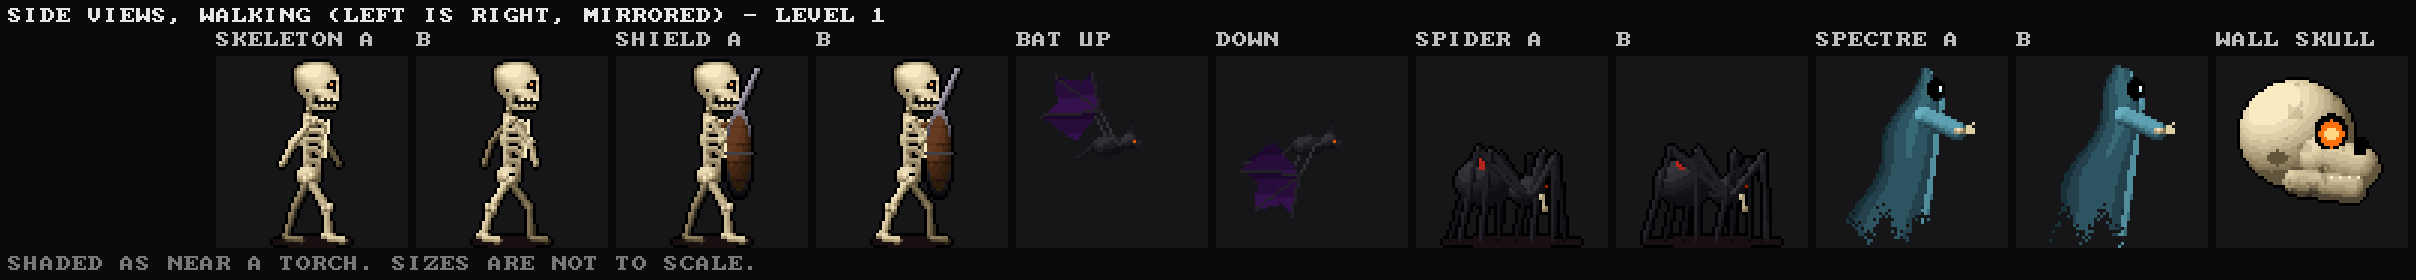
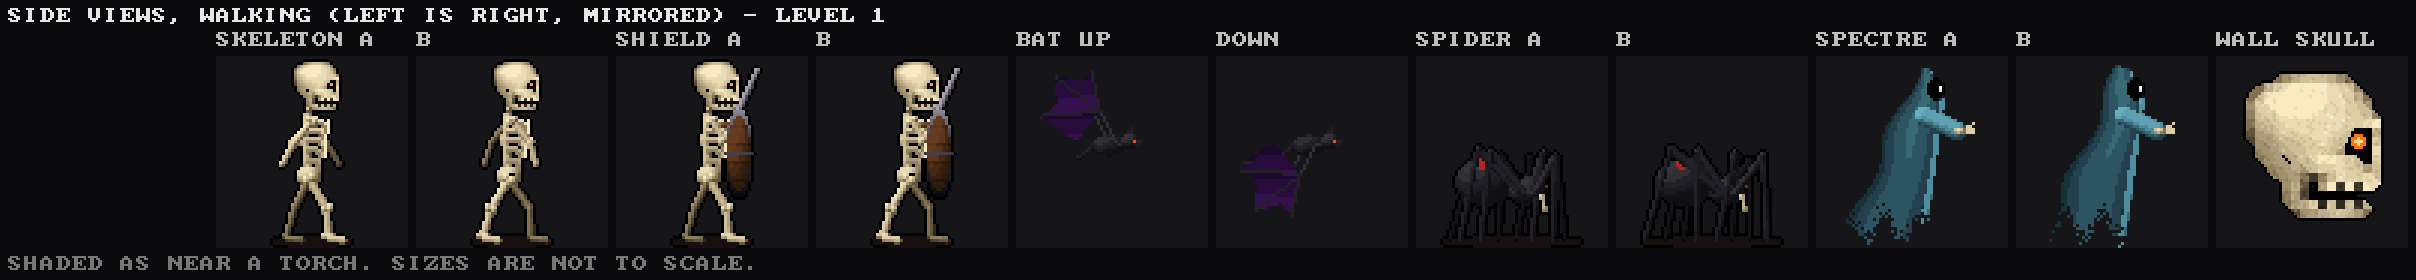
Art pass: the wall skull, the master skull three times over
The wall skull is the hand-drawn skull enlarged by Scale3x (grid_scale3),
with grain and cracks at the finer scale: embers deep in its sockets while
it sleeps, fire gathering in them as it wakes, then in its mouth, its nose
and its cracks as it blazes; broken, it splits and the right half drops.
Its ranks dress it in moss, frost, tears of old blood, char under an iron
crown, and gold. Its side view is the profile, likewise.

Render and art only: a dream run's events are unchanged, and the frame
time matches the commit before, benched back to back. The hand-off log in
docs/InitialArtPass.md section 13 has the lessons so far.

Claude-Session: https://claude.ai/code/session_015ifzKucNXU48yoPLrSFXC9

Changed region(s): [[0.9002, 0.2571, 0.9934, 0.8]]

diff --git a/src/crawl_art.c b/src/crawl_art.c
@@ -1423,49 +1423,106 @@ static void spr_shieldskel(int id, float walk, int swing, int shield) {
     skel_dress(id, walk, 48.0f, swing ? 6.0f : 24.0f);
 }
 
-/* The wall skull: a great skull set into the stone. Asleep it is only bone; woken, fire gathers in
- * its eyes and mouth; then it blazes. */
+/* The wall skull (docs/InitialArtPass.md section 8): the master skull three times over (Scale3x keeps its corners), grain
+ * and cracks at the finer scale, set in the stone to watch the halls. Asleep, embers deep in its sockets; woken, fire
+ * gathers in them; blazing, it shows through the teeth and the cracks; broken, it splits and the right half falls. */
+static uint8_t g_big[64 * 64];
+static int g_bigw, g_bigh;
+static void grid_scale3(const char *const *g, int w, int h, int mirror) {   /* into g_big: palette indices, C_CLEAR, 0 the sockets */
+    uint8_t src[SKULL_H][SKULL_W];
+    for (int y = 0; y < h; y++)
+        for (int x = 0; x < w; x++) {
+            char ch = g[y][mirror ? w - 1 - x : x];
+            src[y][x] = ch == '.' ? (uint8_t)C_CLEAR : (ch == '0' || ch == '@') ? 0 : (uint8_t)(R_BONE + (ch <= '9' ? ch - '0' : ch - 'a' + 10));
+        }
+    #define S3(yy, xx) ((yy) < 0 || (yy) >= h || (xx) < 0 || (xx) >= w ? (uint8_t)C_CLEAR : src[yy][xx])
+    g_bigw = w * 3; g_bigh = h * 3;
+    for (int y = 0; y < h; y++)
+        for (int x = 0; x < w; x++) {
+            uint8_t A = S3(y - 1, x - 1), B = S3(y - 1, x), C = S3(y - 1, x + 1), D = S3(y, x - 1), E = src[y][x], F = S3(y, x + 1);
+            uint8_t G = S3(y + 1, x - 1), H = S3(y + 1, x), I = S3(y + 1, x + 1), o[9];
+            int db = D == B && D != H && B != F, bf = B == F && B != D && F != H, dh = D == H && D != B && H != F, hf = H == F && D != H && B != F;
+            o[0] = db ? D : E; o[1] = (db && E != C) || (bf && E != A) ? B : E; o[2] = bf ? F : E;
+            o[3] = (db && E != G) || (dh && E != A) ? D : E; o[4] = E; o[5] = (bf && E != I) || (hf && E != C) ? F : E;
+            o[6] = dh ? D : E; o[7] = (dh && E != I) || (hf && E != G) ? H : E; o[8] = hf ? F : E;
+            for (int k = 0; k < 9; k++) g_big[(y * 3 + k / 3) * 64 + x * 3 + k % 3] = o[k];
+        }
+    #undef S3
+}
 static void spr_wskull(int id, int heat) {
     cv_begin(cv_sprite, TS, TS);
-    if (heat == 3) {                                               /* broken, falling */
-        cv_ellipse(24, 40, 12, 10, R_BONE, 0.25f, 0.9f); cv_ellipse(43, 46, 10, 8, R_BONE, 0.2f, 0.8f);
-        cv_line(24, 31, 30, 46, R_BONE + 1); cv_line(40, 40, 46, 52, R_BONE + 1);
-        cv_ellipse(22, 40, 3.5f, 4.0f, R_BONE, 0.0f, 0.05f);
+    grid_scale3(SKULL_FRONT, SKULL_W, SKULL_H, 0);
+    int x0 = 32 - g_bigw / 2, y0 = 6;
+    for (int y = 0; y < g_bigh; y++)                               /* the bone, with a grain finer than its pixels */
+        for (int x = 0; x < g_bigw; x++) {
+            uint8_t c = g_big[y * 64 + x];
+            if (c == C_CLEAR) continue;
+            if (c > R_BONE && c < R_BONE + 16) {
+                float r = h01(x, y, 71), n = fbm(x / 5.0f, y / 5.0f, 16, 73);
+                int v = c - R_BONE + (r < 0.12f ? -1 : r > 0.93f ? 1 : 0) - (n < 0.3f ? 1 : 0);
+                c = (uint8_t)(R_BONE + clampi(v, 1, 15));
+            }
+            cv_px(x0 + x, y0 + y, c);
+        }
+    static const float CR[3][4] = { { 33, 6, 1.1f, 13 }, { 15, 18, 0.5f, 9 }, { 40, 34, 1.9f, 8 } };   /* cracks wandering through it */
+    for (int k = 0; k < 3; k++) {
+        float x = CR[k][0], y = CR[k][1], a = CR[k][2];
+        for (int i = 0; i < (int)CR[k][3]; i++) {
+            a += (h01(k, i, 79) - 0.5f) * 0.9f; x += cosf(a); y += sinf(a);
+            uint8_t c = cv_sprite[(int)y * TS + (int)x];
+            if (c > R_BONE && c < R_BONE + 16) cv_px((int)x, (int)y, heat == 2 ? (uint8_t)(R_FLAME + 8 + (i & 3)) : (uint8_t)(R_BONE + 1));
+        }
+    }
+    /* its eyes: the sockets' middles, 3 by 3 from the grid's @ */
+    float ex[2], ey[2]; int ne = 0;
+    for (int y = 0; y < SKULL_H; y++) for (int x = 0; x < SKULL_W && ne < 2; x++) if (SKULL_FRONT[y][x] == '@') { ex[ne] = x0 + x * 3 + 1.5f; ey[ne] = y0 + y * 3 + 1.5f; ne++; }
+    if (heat == 3) {                                               /* broken: split, the right half falling away */
+        static uint8_t tmp[TS * TS];
+        memcpy(tmp, cv_sprite, sizeof tmp);
+        for (int y = 0; y < TS; y++)
+            for (int x = 0; x < TS; x++) {
+                int jag = 33 + (int)(3.0f * sinf(y * 0.7f)) + (y & 1);
+                if (x >= jag - 1 && x <= jag) { cv_sprite[y * TS + x] = C_CLEAR; continue; }
+                if (x > jag) { cv_sprite[y * TS + x] = C_CLEAR; int sy = y - 6, sx = x - 3; if (sy >= 0 && sx > jag) cv_sprite[y * TS + x] = tmp[sy * TS + sx]; }
+            }
+        for (int i = 0; i < 7; i++) cv_ellipse(14 + h01(i, 1, 81) * 36, 57 + h01(i, 2, 81) * 5, 1.5f + h01(i, 3, 81) * 2, 1.2f, R_BONE, 0.2f, 0.8f);   /* shards */
         cv_outline(0); cv_store(id); return;
     }
-    cv_ellipse(32, 27, 21, 20, R_BONE, 0.22f, 0.95f);              /* the dome */
-    cv_ellipse(32, 44, 14, 9, R_BONE, 0.2f, 0.8f);                 /* the jaw */
-    for (int y = 0; y < TS; y++)                                   /* cracks and grime */
-        for (int x = 0; x < TS; x++) {
-            uint8_t *p = &cv_sprite[y * TS + x];
-            if (*p == C_CLEAR) continue;
-            if (fbm(x / 6.0f, y / 6.0f, 16, 71) < 0.3f) *p = (uint8_t)(*p - 2 < R_BONE ? R_BONE : *p - 2);
-        }
-    cv_line(22, 9, 27, 20, R_BONE + 2); cv_line(27, 20, 25, 24, R_BONE + 2);
-    for (int k = -1; k <= 1; k += 2) {                             /* sockets */
-        float ex = 32 + k * 8.5f, ey = 29;
-        cv_flat(ex, ey, 6.0f, 6.5f, 0);
-        cv_eye_mark((int)ex, (int)ey);
-        if (heat) {
-            float r = heat == 1 ? 2.5f : 4.6f;
-            for (int y = (int)(ey - 7); y <= (int)(ey + 7); y++)
-                for (int x = (int)(ex - 7); x <= (int)(ex + 7); x++) {
-                    float d = hypotf(x + 0.5f - ex, (y + 0.5f - ey) * 0.9f) / r;
-                    if (d < 1.0f) cv_px(x, y, (uint8_t)(R_FLAME + clampi((int)((1.1f - d * 0.8f) * 15), 2, 15)));
-                }
-            if (heat == 2) for (int i = 0; i < 6; i++) cv_px((int)(ex + (h01(i, k + 2, 73) - 0.5f) * 8), (int)(ey - 6 - h01(i, k + 5, 73) * 6), (uint8_t)(R_FLAME + 9 + (i & 3)));
-        } else cv_px((int)ex, (int)ey + 1, R_FLAME + 3);           /* a last ember */
+    for (int k = 0; k < ne; k++) {
+        cv_eye_mark((int)ex[k], (int)ey[k]);
+        if (!heat) { cv_px((int)ex[k], (int)ey[k], (uint8_t)(R_FLAME + 3)); continue; }   /* a last ember */
+        float r = heat == 1 ? 3.0f : 5.5f;
+        for (int y = (int)(ey[k] - 7); y <= (int)(ey[k] + 7); y++)   /* fire gathering in the socket, and only there */
+            for (int x = (int)(ex[k] - 7); x <= (int)(ex[k] + 7); x++) {
+                if ((unsigned)x >= TS || (unsigned)y >= TS || cv_sprite[y * TS + x] != 0) continue;
+                float d = hypotf(x + 0.5f - ex[k], (y + 0.5f - ey[k]) * 0.9f) / r;
+                if (d < 1.0f) cv_px(x, y, (uint8_t)(R_FLAME + clampi((int)((1.1f - d * 0.8f) * 15), 2, 15)));
+            }
+        if (heat == 2) for (int i = 0; i < 6; i++) cv_px((int)(ex[k] + (h01(i, k + 2, 83) - 0.5f) * 7), (int)(ey[k] - 5 - h01(i, k + 5, 83) * 6), (uint8_t)(R_FLAME + 9 + (i & 3)));
     }
-    float nose[6] = { 32, 34, 29, 40, 35, 40 };                    /* nose */
-    cv_poly(nose, 3, R_BONE, 0.0f, 0.0f, 34, 6);
-    for (int y = 34; y < 41; y++) for (int x = 29; x < 36; x++) if (cv_sprite[y * TS + x] == R_BONE) cv_sprite[y * TS + x] = 0;
-    for (int i = -4; i <= 4; i++) {                                /* teeth over a dark mouth */
-        int x = 32 + i * 2;
-        cv_px(x, 45, 0); cv_px(x, 46, heat ? (uint8_t)(R_FLAME + 6 + heat * 3) : 0);
-        cv_px(x - 1, 44, sh(R_BONE, 0.9f)); cv_px(x - 1, 47, sh(R_BONE, 0.7f));
-    }
+    if (heat)                                                      /* and in its mouth, and up its nose when it blazes */
+        for (int y = y0 + 27; y < y0 + 48; y++)
+            for (int x = x0; x < x0 + g_bigw; x++) {
+                if (cv_sprite[y * TS + x] != 0) continue;
+                int mouth = y >= y0 + 39, nose = y < y0 + 39 && x > x0 + 15 && x < x0 + 30;
+                if (mouth) cv_px(x, y, (uint8_t)(R_FLAME + (heat == 2 ? 7 + (int)(h01(x, y, 85) * 6.0f) : 2 + (int)(h01(x, y, 85) * 3.0f))));
+                else if (nose && heat == 2) cv_px(x, y, (uint8_t)(R_FLAME + 4 + (int)(h01(x, y, 87) * 4.0f)));
+            }
     cv_outline(0);
     cv_store(id);
+}
+
+/* the wall skull's dressing: what its rank has done to it, as the skeletons' */
+static void wskull_dress(int id) {
+    for (int r = RK_II; r < NRANK; r++) {
+        dress_begin(id);
+        if (r == RK_II) kit_moss(0.35f, 2, 401);
+        if (r == RK_III) kit_frost(0.8f, 403);
+        if (r == RK_IV) { kit_blood(23, 37, 14, 2, 405); kit_blood(41, 37, 12, 2, 407); }   /* tears of old blood */
+        if (r == RK_V) { kit_char(0.35f, 409); kit_crown(32, 7, 26, 411); }
+        if (r == RK_GILDED) { kit_gold(R_BONE, 0.6f, 413); kit_mask(10, 6, 55, 42); }
+        dress_store(id, r, R_BONE);
+    }
 }
 
 /* A big black spider: the red eyes are all you see of it in its web until it drops */
@@ -5299,17 +5356,6 @@ static void cv_curve(float x0, float y0, float cx, float cy, float x1, float y1,
     }
 }
 
-/* a skull in profile, looking right: crown, brow, the long face, a hinged jaw */
-static void skull_side(float x, float y, float s, float jaw, uint8_t eye) {
-    cv_ellipse(x - 1.0f * s, y, 6.0f * s, 5.6f * s, R_BONE, 0.3f, 1.0f);
-    cv_capsule(x + 1.5f * s, y + 2.5f * s, x + 5.5f * s, y + 3.5f * s, 2.2f * s, R_BONE, 0.3f, 0.9f);   /* the upper jaw */
-    cv_capsule(x - 1.0f * s, y + 5.0f * s, x + 5.0f * s, y + 5.5f * s + jaw, 1.4f * s, R_BONE, 0.25f, 0.8f);   /* the lower */
-    cv_flat(x + 2.6f * s, y - 0.2f * s, 1.8f * s, 1.9f * s, 0);    /* the socket */
-    if (eye) cv_px((int)(x + 2.8f * s), (int)y, eye);
-    cv_flat(x + 5.6f * s, y + 1.4f * s, 0.7f * s, 0.9f * s, 0);    /* the nose */
-    for (int i = 0; i < 4; i++) cv_px((int)(x + (2.5f + i * 1.0f) * s), (int)(y + 4.4f * s), sh(R_BONE, 0.95f));
-    cv_flat(x - 3.0f * s, y + 2.5f * s, 1.0f * s, 0.8f * s, sh(R_BONE, 0.3f));   /* the ear hole */
-}
 
 /* a skeleton walking right. w: the stride, +1 or -1; arm: 0 swinging, 1 a sword up and a shield on */
 static void skel_side(float w, int arm) {
@@ -5434,15 +5480,20 @@ static void spr_ghost_side(int id, float ph) {
 }
 
 /* the wall skull turned to show its side: a great skull in profile, a coal in its eye */
-static void spr_wskull_side(void) {
+static void spr_wskull_side(void) {                         /* the master profile three times over, its eye alight */
     cv_begin(cv_sprite, TS, TS);
-    skull_side(30, 26, 3.2f, 1.0f, 0);
-    for (int y = 0; y < TS; y++)
-        for (int x = 0; x < TS; x++) {
-            uint8_t *p = &cv_sprite[y * TS + x];
-            if (*p >= R_BONE && *p < R_BONE + 16 && fbm(x / 6.0f, y / 6.0f, 16, 71) < 0.3f) *p = (uint8_t)(*p - 2 < R_BONE ? R_BONE : *p - 2);
+    grid_scale3(SKULL_SIDE, SKULL_W, SKULL_H, 0);
+    int x0 = 32 - g_bigw / 2, y0 = 6;
+    for (int y = 0; y < g_bigh; y++)
+        for (int x = 0; x < g_bigw; x++) {
+            uint8_t c = g_big[y * 64 + x];
+            if (c == C_CLEAR) continue;
+            if (c > R_BONE && c < R_BONE + 16) { float r = h01(x, y, 71); c = (uint8_t)(R_BONE + clampi(c - R_BONE + (r < 0.12f ? -1 : r > 0.93f ? 1 : 0), 1, 15)); }
+            cv_px(x0 + x, y0 + y, c);
         }
-    cv_flat(38.5f, 26, 4.2f, 4.6f, (uint8_t)(R_FLAME + 8)); cv_flat(38.5f, 26, 2.2f, 2.4f, (uint8_t)(R_FLAME + 13));
+    for (int y = 0; y < SKULL_H; y++)
+        for (int x = 0; x < SKULL_W; x++)
+            if (SKULL_SIDE[y][x] == '@') { cv_flat(x0 + x * 3 + 1.5f, y0 + y * 3 + 1.5f, 2.6f, 2.8f, (uint8_t)(R_FLAME + 8)); cv_flat(x0 + x * 3 + 1.5f, y0 + y * 3 + 1.5f, 1.2f, 1.3f, (uint8_t)(R_FLAME + 13)); }
     cv_outline(0);
     cv_store(SP_WSKULL_S);
 }
@@ -9022,7 +9073,7 @@ void crawl_art_init(void) {
     spr_skeleton(SP_SKEL_T, 0.3f, 0.0f, 3, 1);
     spr_shieldskel(SP_SHIELD_A, 1.0f, 0, 1); spr_shieldskel(SP_SHIELD_B, -1.0f, 0, 1); spr_shieldskel(SP_SHIELD_S, 0.2f, 1, 1);
     spr_shieldskel(SP_SHIELD_XA, 1.0f, 0, 0); spr_shieldskel(SP_SHIELD_XB, -1.0f, 0, 0); spr_shieldskel(SP_SHIELD_XS, 0.2f, 1, 0);
-    for (int h = 0; h < 4; h++) spr_wskull(SP_WSKULL0 + h, h);
+    for (int h = 0; h < 4; h++) { spr_wskull(SP_WSKULL0 + h, h); if (h < 3) wskull_dress(SP_WSKULL0 + h); }
     for (int f = 0; f < 3; f++) spr_spider(SP_SPIDER_A + f, f);
     spr_spider(SP_SPIDER_D, 3);
     spr_ball(SP_SKULLFIRE_A, 10.0f, R_FLAME, R_BLOOD, 0, 1); spr_ball(SP_SKULLFIRE_B, 10.5f, R_FLAME, R_BLOOD, 1, 1);

diff --git a/docs/InitialArtPass.md b/docs/InitialArtPass.md
@@ -730,6 +730,8 @@ of usage leaves the next one a true account. **Read it before anything else in t
 | 4. Dressing layer, vapour, the setting | in progress: the layer and the vapour done; the setting not yet | the layer: `crawl_dress`, `crawl_dress_ix` (`src/crawl.h`), `dress_begin`/`dress_store` and the kit (`kit_rags`, `kit_frost`, `kit_moss`, `kit_blood`, `kit_char`, `kit_gold`, `kit_arrow`, `kit_crown`, `kit_chain`, `kit_mask`) in `src/crawl_art.c`; composited in `render_sprites` (`Draw.ov`, untinted) and in `tools/sheet.c`. The vapour: `render_vapour`, `vap_px`, `g_fx` in `src/scene_crawl.c` (`Draw.vap`; the nearest four full, the rest half) | **Still to do**: the *CREATURE EFFECTS* setting (A14): `g_fx` is fixed at 0 (full). It wants `AppConfig` (`src/app.h`), the registry and the settings dialog (`src/win_main.c`, which this container cannot compile: no mingw; CI builds it), and `tools/host.c` (an env var). And the vapour gathering into the mote at a death (7.1). |
 | 5. The skeleton, with the skull master | done, for the owner's eye (but the death's vapour into the mote) | `SKULL_FRONT`, `SKULL_SIDE` (15 by 16, hex steps of the bone ramp, `@` an eye) and `skull_stamp` in `src/crawl_art.c`; `skel_draw` (a neck, the shoulders two pixels lower, the right a pixel lower still), `skel_side`; review: `docs/artpass/review/skeleton.png`, `skeleton_game.png`, `sides.png` | the skull keeps its face through the level's grime (`g_skbox`); fallen, it lies in profile. Dressing (`skel_dress`): II rags and mould, III frosted rags and a notch out of the crown, IV bloodied rags, an arrow in the ribs and a cut brow, V charred, an iron crown broken, a shackle and chain, a torn cloak behind; gilded a death-mask, gold leaf, a clean shroud, a gold chain. Vapour in the game: `docs/artpass/review/skeleton_vapour_game.png`. Frame time 2.03-2.06 ms; a dream run's events unchanged |
 | 6. The shield-bearer | done, for the owner's eye | `spr_shieldskel` (shares `skel_draw` and `skel_dress`; blade, guard and shield moved down with the arm; the dressing keeps off the shield and blade) | as the skeleton |
+| 7. The wall skull | done, for the owner's eye | `spr_wskull` (the master skull three times over by `grid_scale3`, Scale3x; grain and cracks at the finer scale; fire filling the sockets, then the mouth, the nose and the cracks; broken, split with the right half dropped), `wskull_dress` (II moss, III frost, IV tears of old blood, V char and an iron crown, gilded gold and a mask), `spr_wskull_side`; review `docs/artpass/review/wskull.png`, `wskull_game.png` | asleep, ember eyes (A11), seen at 13 cells in the dark. The old `skull_side` is gone. Frame time unchanged (benched back to back against the commit before); events unchanged |
+| 8. The imp | next | `spr_imp`, `spr_imp_side` | the brief is in section 8: soot-black crust over fire, a narrow long-muzzled head, swept horns with glowing tips, slit eyes, ragged wings; re-proportioned (A4 c) |
 
 ### How to pick it up
 
@@ -744,6 +746,22 @@ of usage leaves the next one a true account. **Read it before anything else in t
 5. Frames: `python3 tools/stage.py <MOB_* number> out.png --dists 2.5,6,13,23 --dark 0.15 --fog` (one creature at each
    distance, in the dark and the thickest fog; `--rank r`, `--level n`, `--sub s` for a state, such as a wall skull
    charging). The level's seed is 5 unless `--seed` says otherwise, so frames are comparable between sessions.
-6. A sprite's eyes are wherever its function calls `cv_eye` (or `cv_eye_mark` for an eye drawn as a shape); a redrawn
+7. **Lessons from the first units** (31 October):
+   - Keep a head to about a quarter of the body's height or less: at 1 to 3.4 the skeleton read as a cartoon, so the
+     skull was cut to 16 rows.
+   - The level's grime (`g_decay`) darkens two in five bone pixels by three steps and erased the hand shading, so faces
+     are spared (`g_skbox`); do the same for any hand-drawn face that is aged by the level.
+   - A face drawn by hand at 15 pixels can be used bigger with `grid_scale3` (Scale3x), as the wall skull is, and then
+     given grain at the finer scale, so that every skull in the game is the same skull.
+   - A grid declared `[SKULL_H]` with a row missing reads past its end and crashes `build/sheet`: count the rows.
+   - A creature's dressing is a function beside its sprite's (`skel_dress`, `wskull_dress`), called after `cv_store`,
+     drawing ranks II to gilded with the kit and storing each with `dress_store(id, rank, body ramp)`. The layer is not
+     tinted by the rank, and is kept off whatever is not the body (a shield, a blade).
+   - Vapour comes from the eye points by itself; a creature with none vapours from (32, 16) of its sprite.
+   - The bench varies by a fifth between runs in this container: compare against the commit before, back to back, with
+     a `git worktree`.
+   - The settings dialog is in `src/win_main.c`, which only CI can compile here (no mingw in the container); push and
+     read the build's result before calling the setting done.
+8. A sprite's eyes are wherever its function calls `cv_eye` (or `cv_eye_mark` for an eye drawn as a shape); a redrawn
    creature must call it for each eye, in each pose that has them open, or it will lose its eyes in the game.
 
